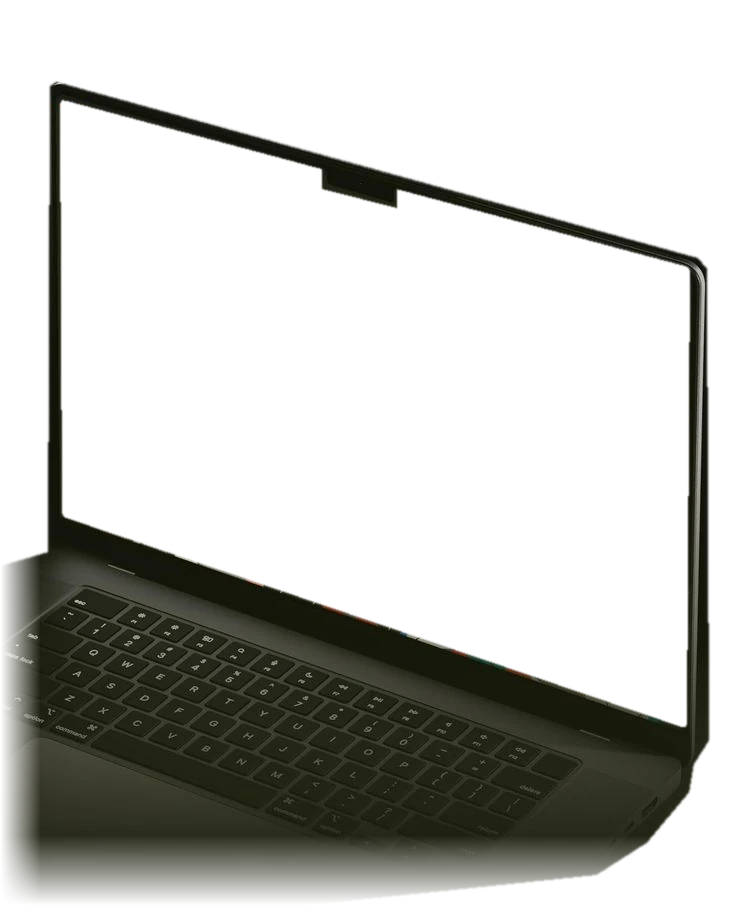
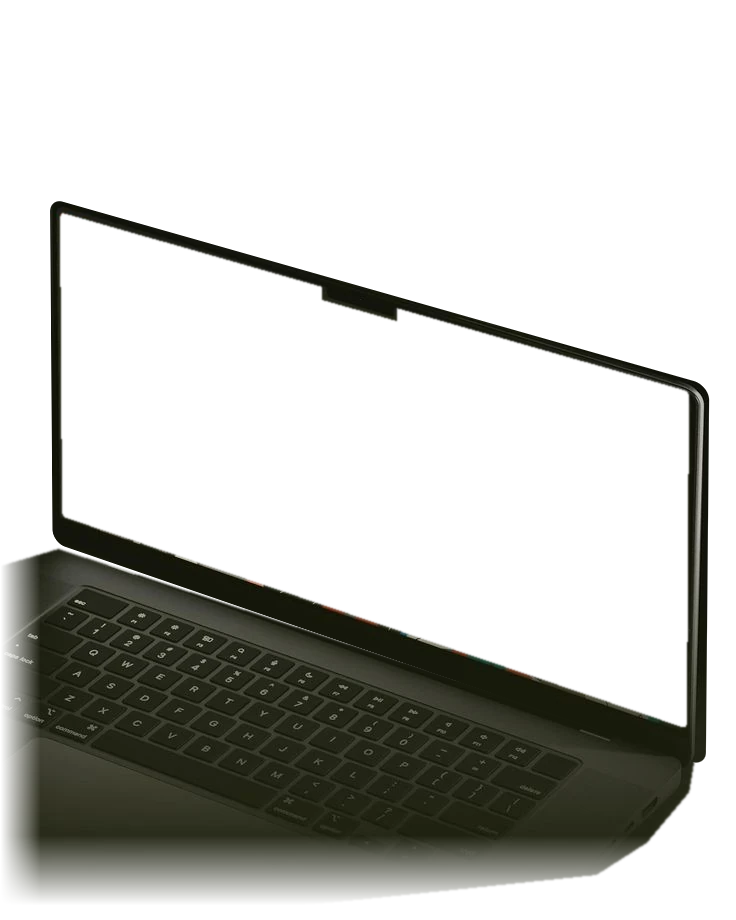
akatech studio modale

Changed region(s): [[0.0625, 0.0913, 0.9688, 0.8217], [0.125, 0.6087, 0.25, 0.6391], [0.25, 0.6391, 0.3438, 0.6696]]

diff --git a/app/pricing/PricingClientMobile.js b/app/pricing/PricingClientMobile.js
@@ -6,7 +6,6 @@ import { useTheme } from '@/lib/theme'
 import { useLanguage } from '@/lib/language'
 import { PageCTA, LaserBeam, GreenUnderline, HoverSlideText, UnderlinedTitle } from '@/components/ui/index'
 import AuroraHero from '@/components/ui/AuroraHero'
-import ProjectMarquee from '@/components/ui/ProjectMarquee'
 import { TESTIMONIALS, FAQ_ITEMS, PRICING } from '@/lib/data'
 
 /* ── HERO ── */
@@ -47,15 +46,13 @@ function HeroPricing() {
         <AuroraHero labels={[]} />
         <div style={{ position: 'absolute', inset: 0, background: 'linear-gradient(to bottom, transparent 20%, rgba(6,14,9,.95) 100%)' }} />
       </div>
-      {/* Bandeau d'images des projets (droite → gauche) : suit le doigt et fait onduler les textes data-wake */}
-      <ProjectMarquee />
       {/* Layer MID */}
       <div ref={layerMidRef} style={{ position: 'relative', zIndex: 10, maxWidth: 800, padding: '72px 5% 0', textAlign: 'center', willChange: 'transform, opacity, filter', transition: 'transform .1s ease-out' }}>
         <motion.div initial={{ opacity: 0, y: 24 }} animate={{ opacity: 1, y: 0 }} transition={{ duration: .6 }}>
-          <h1 style={{ position: 'relative', fontSize: 'min(var(--title-size), 3.8rem)', fontWeight: 900, fontStyle: 'italic', fontFamily: "'Barlow Condensed',sans-serif", color: 'rgba(255,255,255,.88)', letterSpacing: 'var(--title-tracking)', lineHeight: 'var(--title-leading)', marginBottom: '1rem' }}><span data-wake style={{ display: 'block' }}><UnderlinedTitle text={t('pricingTitle')} /></span></h1>
-          <div data-wake><p style={{ fontSize: '1rem', color: 'rgba(255,255,255,.55)', lineHeight: 1.75, maxWidth: 540, margin: '0 auto 1.5rem' }}>
+          <h1 style={{ position: 'relative', fontSize: 'min(var(--title-size), 3.8rem)', fontWeight: 900, fontStyle: 'italic', fontFamily: "'Barlow Condensed',sans-serif", color: 'rgba(255,255,255,.88)', letterSpacing: 'var(--title-tracking)', lineHeight: 'var(--title-leading)', marginBottom: '1rem' }}><UnderlinedTitle text={t('pricingTitle')} /></h1>
+          <p style={{ fontSize: '1rem', color: 'rgba(255,255,255,.55)', lineHeight: 1.75, maxWidth: 540, margin: '0 auto 1.5rem' }}>
             {t('pricingHero')}
-          </p></div>
+          </p>
           <div style={{ display: 'inline-flex', alignItems: 'center', gap: '.6rem', padding: '.5rem 1.2rem', borderRadius: 100, background: 'rgba(136,202,83,.08)', border: '1px solid rgba(136,202,83,.2)' }}>
             <div style={{ width: 8, height: 8, borderRadius: '50%', background: 'linear-gradient(135deg, #c6ff3d, #88ca53)', animation: 'dot-blink 1.4s ease-in-out infinite' }} />
             <span style={{ fontFamily: "'JetBrains Mono',monospace", fontSize: '.65rem', fontWeight: 600, color: T.green, letterSpacing: '.06em' }}>

diff --git a/app/services/ServicesClientMobile.js b/app/services/ServicesClientMobile.js
@@ -8,7 +8,6 @@ import { useLanguage } from '@/lib/language'
 import { LazyImg, LaserBeam, GreenUnderline, HoverSlideText, UnderlinedTitle } from '@/components/ui/index'
 import ConversionMarquee from '@/components/ui/ConversionMarquee'
 import AuroraHero from '@/components/ui/AuroraHero'
-import ProjectMarquee from '@/components/ui/ProjectMarquee'
 import { cld } from '@/lib/cloudinary'
 import { SERVICES } from '@/lib/data'
 
@@ -29,14 +28,12 @@ function HeroServices() {
   return (
     <section style={{ height: '100vh', minHeight: 600, width: '100%', background: '#060e09', position: 'relative', overflow: 'hidden', display: 'flex', alignItems: 'center' }}>
       <AuroraHero labels={[]} />
-      {/* Bandeau d'images des projets (droite → gauche) : suit le doigt et fait onduler les textes data-wake */}
-      <ProjectMarquee zIndex={0} />
       <div style={{ maxWidth: 900, margin: '0 auto', textAlign: 'center', position: 'relative', zIndex: 1, padding: '72px 5% 0' }}>
         <motion.div initial={{ opacity: 0, y: 20 }} animate={{ opacity: 1, y: 0 }} transition={{ duration: .6 }}>
-          <h1 style={{ position: 'relative', fontSize: 'min(var(--title-size), 3.8rem)', fontWeight: 900, fontStyle: 'italic', fontFamily: "'Barlow Condensed',sans-serif", color: 'rgba(255,255,255,.88)', letterSpacing: 'var(--title-tracking)', lineHeight: 'var(--title-leading)', marginBottom: '1.2rem' }}><span data-wake style={{ display: 'block' }}><UnderlinedTitle text={t('services').toUpperCase()} /></span></h1>
-          <div data-wake><p style={{ fontSize: '1rem', color: 'rgba(255,255,255,.55)', lineHeight: 1.75, maxWidth: 620, margin: '0 auto 2.5rem' }}>
+          <h1 style={{ position: 'relative', fontSize: 'min(var(--title-size), 3.8rem)', fontWeight: 900, fontStyle: 'italic', fontFamily: "'Barlow Condensed',sans-serif", color: 'rgba(255,255,255,.88)', letterSpacing: 'var(--title-tracking)', lineHeight: 'var(--title-leading)', marginBottom: '1.2rem' }}><UnderlinedTitle text={t('services').toUpperCase()} /></h1>
+          <p style={{ fontSize: '1rem', color: 'rgba(255,255,255,.55)', lineHeight: 1.75, maxWidth: 620, margin: '0 auto 2.5rem' }}>
             {t('servicesHero')}
-          </p></div>
+          </p>
           <div style={{ display: 'flex', flexWrap: 'wrap', gap: '1rem', justifyContent: 'center' }}>
             <a href="https://wa.me/2250142507750" target="_blank" rel="noreferrer" className="btn-raised" style={{ fontSize: '1rem' }}>
               <HoverSlideText text={t('freeQuote')} /> <MessageCircle size={16} />

diff --git a/app/projects/ProjectsClientMobile.js b/app/projects/ProjectsClientMobile.js
@@ -12,7 +12,6 @@ import { useLanguage } from '@/lib/language'
 import ProjectShowcase from '@/components/ui/ProjectShowcase'
 import { LazyImg, LaserBeam, GreenUnderline, HoverSlideText, UnderlinedTitle } from '@/components/ui/index'
 import AuroraHero from '@/components/ui/AuroraHero'
-import ProjectMarquee from '@/components/ui/ProjectMarquee'
 import { cld } from '@/lib/cloudinary'
 import { PROJECTS, getLocalizedData } from '@/lib/data'
 import { hasRealUrl } from '@/lib/project-stories'
@@ -61,15 +60,13 @@ function HeroRealisations() {
         <AuroraHero labels={[]} />
         <div style={{ position: 'absolute', inset: 0, background: 'linear-gradient(to bottom, transparent 20%, rgba(6,14,9,.95) 100%)' }} />
       </div>
-      {/* Bandeau d'images des projets (droite → gauche) : suit le doigt et fait onduler les textes data-wake */}
-      <ProjectMarquee />
       {/* Layer MID */}
       <div ref={layerMidRef} style={{ position: 'relative', zIndex: 10, maxWidth: 900, padding: '72px 5% 0', textAlign: 'center', willChange: 'transform, opacity, filter', transition: 'transform .1s ease-out' }}>
         <motion.div initial={{ opacity: 0, y: 24 }} animate={{ opacity: 1, y: 0 }} transition={{ duration: .6 }}>
-          <h1 style={{ position: 'relative', fontSize: 'min(var(--title-size), 3.8rem)', fontWeight: 900, fontStyle: 'italic', fontFamily: "'Barlow Condensed',sans-serif", color: 'rgba(255,255,255,.88)', letterSpacing: 'var(--title-tracking)', lineHeight: 'var(--title-leading)', marginBottom: '1.2rem' }}><span data-wake style={{ display: 'block' }}>+{PROJECTS.length} {t('deliveredProjects')},<br /><GreenUnderline>99% {t('satisfied')}.</GreenUnderline></span></h1>
-          <div data-wake><p style={{ fontSize: '1rem', color: 'rgba(255,255,255,.55)', lineHeight: 1.75, maxWidth: 560, margin: '0 auto 2.5rem' }}>
+          <h1 style={{ position: 'relative', fontSize: 'min(var(--title-size), 3.8rem)', fontWeight: 900, fontStyle: 'italic', fontFamily: "'Barlow Condensed',sans-serif", color: 'rgba(255,255,255,.88)', letterSpacing: 'var(--title-tracking)', lineHeight: 'var(--title-leading)', marginBottom: '1.2rem' }}>+{PROJECTS.length} {t('deliveredProjects')},<br /><GreenUnderline>99% {t('satisfied')}.</GreenUnderline></h1>
+          <p style={{ fontSize: '1rem', color: 'rgba(255,255,255,.55)', lineHeight: 1.75, maxWidth: 560, margin: '0 auto 2.5rem' }}>
             {t('projectsHero')}
-          </p></div>
+          </p>
         </motion.div>
       </div>
       {/* Layer FORE — particules */}

diff --git a/app/blog/BlogClientMobile.js b/app/blog/BlogClientMobile.js
@@ -7,7 +7,6 @@ import { useTheme } from '@/lib/theme'
 import { useLanguage } from '@/lib/language'
 import { MarqueeStrip, LaserBeam, GreenUnderline, HoverSlideText, LazyImg, UnderlinedTitle } from '@/components/ui/index'
 import AuroraHero from '@/components/ui/AuroraHero'
-import ProjectMarquee from '@/components/ui/ProjectMarquee'
 import { BLOG_POSTS } from '@/lib/data'
 import { cld } from '@/lib/cloudinary'
 
@@ -54,15 +53,13 @@ function HeroBlog() {
         <AuroraHero labels={[]} />
         <div style={{ position: 'absolute', inset: 0, background: 'linear-gradient(to bottom, transparent 20%, rgba(6,14,9,.95) 100%)' }} />
       </div>
-      {/* Bandeau d'images des projets (droite → gauche) : suit le doigt et fait onduler les textes data-wake */}
-      <ProjectMarquee />
       {/* Layer MID */}
       <div ref={layerMidRef} style={{ position: 'relative', zIndex: 10, maxWidth: 800, padding: '72px 5% 0', textAlign: 'center', willChange: 'transform, opacity, filter', transition: 'transform .1s ease-out' }}>
         <motion.div initial={{ opacity: 0, y: 30 }} animate={{ opacity: 1, y: 0 }} transition={{ duration: .7, ease: [.22,1,.36,1] }}>
-          <h1 style={{ position: 'relative', fontSize: 'min(var(--title-size), 3.8rem)', fontWeight: 900, fontStyle: 'italic', fontFamily: "'Barlow Condensed',sans-serif", color: 'rgba(255,255,255,.88)', letterSpacing: 'var(--title-tracking)', lineHeight: 'var(--title-leading)', marginBottom: '1.2rem' }}><span data-wake style={{ display: 'block' }}><UnderlinedTitle text={t('blogTitle')} /></span></h1>
-          <div data-wake><p style={{ fontSize: '1.05rem', color: 'rgba(255,255,255,.55)', lineHeight: 1.75, maxWidth: 520, margin: '0 auto' }}>
+          <h1 style={{ position: 'relative', fontSize: 'min(var(--title-size), 3.8rem)', fontWeight: 900, fontStyle: 'italic', fontFamily: "'Barlow Condensed',sans-serif", color: 'rgba(255,255,255,.88)', letterSpacing: 'var(--title-tracking)', lineHeight: 'var(--title-leading)', marginBottom: '1.2rem' }}><UnderlinedTitle text={t('blogTitle')} /></h1>
+          <p style={{ fontSize: '1.05rem', color: 'rgba(255,255,255,.55)', lineHeight: 1.75, maxWidth: 520, margin: '0 auto' }}>
             {t('blogHero')}
-          </p></div>
+          </p>
           <a
             href="https://www.linkedin.com/in/m-bollo-aka"
             target="_blank"

diff --git a/app/contact/ContactClientMobile.js b/app/contact/ContactClientMobile.js
@@ -12,7 +12,6 @@ import { LaserBeam, GreenUnderline, HoverSlideText, LazyImg, UnderlinedTitle } f
 import { trackAction } from '@/lib/track-action'
 import ConversionMarquee from '@/components/ui/ConversionMarquee'
 import AuroraHero from '@/components/ui/AuroraHero'
-import ProjectMarquee from '@/components/ui/ProjectMarquee'
 import { cld } from '@/lib/cloudinary'
 
 
@@ -72,15 +71,13 @@ function HeroContact() {
         <AuroraHero labels={[]} />
         <div style={{ position: 'absolute', inset: 0, background: 'linear-gradient(to bottom, transparent 20%, rgba(6,14,9,.95) 100%)' }} />
       </div>
-      {/* Bandeau d'images des projets (droite → gauche) : suit le doigt et fait onduler les textes data-wake */}
-      <ProjectMarquee />
       {/* Layer MID */}
       <div ref={layerMidRef} style={{ position: 'relative', zIndex: 10, maxWidth: 1000, padding: '72px 5% 0', textAlign: 'center', willChange: 'transform, opacity, filter', transition: 'transform .1s ease-out' }}>
         <motion.div initial={{ opacity: 0, y: 30 }} animate={{ opacity: 1, y: 0 }} transition={{ duration: .7, ease: [.22, 1, .36, 1] }}>
-          <h1 style={{ position: 'relative', fontSize: 'min(var(--title-size), 3.8rem)', fontWeight: 900, fontStyle: 'italic', fontFamily: "'Barlow Condensed',sans-serif", color: 'rgba(255,255,255,.88)', letterSpacing: 'var(--title-tracking)', lineHeight: 'var(--title-leading)', marginBottom: '1.2rem' }}><span data-wake style={{ display: 'block' }}><UnderlinedTitle text={t('contactTitle')} /></span></h1>
-          <div data-wake><p style={{ fontSize: 'clamp(.9rem,2vw,1.05rem)', color: 'rgba(255,255,255,.55)', lineHeight: 1.75, maxWidth: 560, margin: '0 auto 2.5rem' }}>
+          <h1 style={{ position: 'relative', fontSize: 'min(var(--title-size), 3.8rem)', fontWeight: 900, fontStyle: 'italic', fontFamily: "'Barlow Condensed',sans-serif", color: 'rgba(255,255,255,.88)', letterSpacing: 'var(--title-tracking)', lineHeight: 'var(--title-leading)', marginBottom: '1.2rem' }}><UnderlinedTitle text={t('contactTitle')} /></h1>
+          <p style={{ fontSize: 'clamp(.9rem,2vw,1.05rem)', color: 'rgba(255,255,255,.55)', lineHeight: 1.75, maxWidth: 560, margin: '0 auto 2.5rem' }}>
             {t('contactHero')}
-          </p></div>
+          </p>
         </motion.div>
       </div>
       {/* Layer FORE — particules */}

diff --git a/app/about/AboutClientMobile.js b/app/about/AboutClientMobile.js
@@ -8,7 +8,6 @@ import { useLanguage } from '@/lib/language'
 import { AnimatedCounter, LazyImg, GreenUnderline, HoverSlideText, UnderlinedTitle } from '@/components/ui/index'
 import TrustStacksMarquee from '@/components/ui/TrustStacksMarquee'
 import AuroraHero from '@/components/ui/AuroraHero'
-import ProjectMarquee from '@/components/ui/ProjectMarquee'
 import { STATS, PROJECTS } from '@/lib/data'
 import { cld } from '@/lib/cloudinary'
 
@@ -64,14 +63,12 @@ function HeroAbout() {
         <AuroraHero labels={[]} />
         <div style={{ position: 'absolute', inset: 0, background: `linear-gradient(to bottom, transparent 20%, ${T.bg} 100%)`, opacity: T.light ? 1 : .95 }} />
       </div>
-      {/* Bandeau d'images des projets (droite → gauche) : suit le doigt et fait onduler les textes data-wake */}
-      <ProjectMarquee />
       <div style={{ position: 'relative', zIndex: 10, width: '100%', padding: '7rem 5% 4rem' }}>
         <motion.div initial={{ opacity: 0, y: 24 }} animate={{ opacity: 1, y: 0 }} transition={{ duration: .7, ease: [.22,1,.36,1] }}>
-          <h1 style={{ position: 'relative', fontSize: 'min(var(--title-size), 3.8rem)', fontWeight: 900, fontStyle: 'italic', fontFamily: "'Barlow Condensed',sans-serif", color: T.textMain, letterSpacing: 'var(--title-tracking)', lineHeight: 'var(--title-leading)', marginBottom: '1.2rem' }}><span data-wake style={{ display: 'block' }}><UnderlinedTitle text={tFr('aboutTitle')} /></span></h1>
-          <div data-wake><p style={{ fontSize: '.95rem', color: T.textSub, lineHeight: 1.75, marginBottom: '2rem', maxWidth: 480 }}>
+          <h1 style={{ position: 'relative', fontSize: 'min(var(--title-size), 3.8rem)', fontWeight: 900, fontStyle: 'italic', fontFamily: "'Barlow Condensed',sans-serif", color: T.textMain, letterSpacing: 'var(--title-tracking)', lineHeight: 'var(--title-leading)', marginBottom: '1.2rem' }}><UnderlinedTitle text={tFr('aboutTitle')} /></h1>
+          <p style={{ fontSize: '.95rem', color: T.textSub, lineHeight: 1.75, marginBottom: '2rem', maxWidth: 480 }}>
             {tFr('aboutHero')}
-          </p></div>
+          </p>
         </motion.div>
         {/* Photo grid */}
         <motion.div initial={{ opacity: 0, y: 20 }} animate={{ opacity: 1, y: 0 }} transition={{ duration: .7, delay: .2 }}

diff --git a/app/contact/ContactClient.js b/app/contact/ContactClient.js
@@ -12,7 +12,6 @@ import { useLanguage } from '@/lib/language'
 import { GreenUnderline, LazyImg, UnderlinedTitle } from '@/components/ui/index'
 import ConversionMarquee from '@/components/ui/ConversionMarquee'
 import AuroraHero from '@/components/ui/AuroraHero'
-import ProjectMarquee from '@/components/ui/ProjectMarquee'
 import { cld } from '@/lib/cloudinary'
 
 // ═══════════════════════════════════════════════════════════════
@@ -254,16 +253,13 @@ function HeroContact() {
       </div>
 
       {/* Titre géant bas-gauche + bloc texte centré verticalement à droite — gabarit hero "page title" (réf. Helious) */}
-      {/* Bandeau d'images des projets (droite → gauche) : suit le pointeur et fait onduler les textes data-wake */}
-      <ProjectMarquee />
-
       <div ref={layerMidRef} className="hr-row" style={{ willChange: 'transform, opacity, filter', transition: 'transform .1s ease-out' }}>
-        <motion.h1 className="hr-title" initial={{ opacity: 0, y: 28 }} animate={{ opacity: 1, y: 0 }} transition={{ duration: .7, ease: 'easeOut' }}><span data-wake style={{ display: 'block' }}>{t('contactTitle').toUpperCase()}</span></motion.h1>
+        <motion.h1 className="hr-title" initial={{ opacity: 0, y: 28 }} animate={{ opacity: 1, y: 0 }} transition={{ duration: .7, ease: 'easeOut' }}>{t('contactTitle').toUpperCase()}</motion.h1>
 
         <div className="hr-side">
           <motion.div initial={{ opacity: 0, y: 20 }} animate={{ opacity: 1, y: 0 }} transition={{ duration: .6, delay: .2 }}>
-            <div data-wake><p className="hr-kicker">{t('freeQuote')} · 24h</p>
-            <p className="hr-desc">{t('contactHero')}</p></div>
+            <p className="hr-kicker">{t('freeQuote')} · 24h</p>
+            <p className="hr-desc">{t('contactHero')}</p>
           </motion.div>
         </div>
       </div>

diff --git a/app/projects/ProjectsClient.js b/app/projects/ProjectsClient.js
@@ -7,7 +7,6 @@ import { useLanguage } from '@/lib/language'
 import ProjectShowcase from '@/components/ui/ProjectShowcase'
 import { LazyImg, GreenUnderline, HoverSlideText, UnderlinedTitle } from '@/components/ui/index'
 import AuroraHero from '@/components/ui/AuroraHero'
-import ProjectMarquee from '@/components/ui/ProjectMarquee'
 import { cld } from '@/lib/cloudinary'
 import { PROJECTS, getLocalizedData } from '@/lib/data'
 import { hasRealUrl } from '@/lib/project-stories'
@@ -56,16 +55,13 @@ function HeroRealisations() {
       </div>
 
       {/* Titre géant bas-gauche + bloc texte centré verticalement à droite — gabarit hero "page title" (réf. Helious) */}
-      {/* Bandeau d'images des projets (droite → gauche) : suit le pointeur et fait onduler les textes data-wake */}
-      <ProjectMarquee />
-
       <div ref={layerMidRef} className="hr-row" style={{ willChange: 'transform, opacity, filter', transition: 'transform .1s ease-out' }}>
-        <motion.h1 className="hr-title" initial={{ opacity: 0, y: 28 }} animate={{ opacity: 1, y: 0 }} transition={{ duration: .7, ease: 'easeOut' }}><span data-wake style={{ display: 'block' }}>{t('projectsTitleUpper')}</span></motion.h1>
+        <motion.h1 className="hr-title" initial={{ opacity: 0, y: 28 }} animate={{ opacity: 1, y: 0 }} transition={{ duration: .7, ease: 'easeOut' }}>{t('projectsTitleUpper')}</motion.h1>
 
         <div className="hr-side">
           <motion.div initial={{ opacity: 0, y: 20 }} animate={{ opacity: 1, y: 0 }} transition={{ duration: .6, delay: .2 }}>
-            <div data-wake><p className="hr-kicker">+{PROJECTS.length} {t('deliveredProjects')} · 99% {t('satisfied')}</p>
-            <p className="hr-desc">{t('projectsHero')}</p></div>
+            <p className="hr-kicker">+{PROJECTS.length} {t('deliveredProjects')} · 99% {t('satisfied')}</p>
+            <p className="hr-desc">{t('projectsHero')}</p>
           </motion.div>
         </div>
       </div>

diff --git a/app/services/ServicesClients.js b/app/services/ServicesClients.js
@@ -8,7 +8,6 @@ import { useLanguage } from '@/lib/language'
 import { LazyImg, LaserBeam, GreenUnderline, HoverSlideText, UnderlinedTitle } from '@/components/ui/index'
 import ConversionMarquee from '@/components/ui/ConversionMarquee'
 import AuroraHero from '@/components/ui/AuroraHero'
-import ProjectMarquee from '@/components/ui/ProjectMarquee'
 import { cld } from '@/lib/cloudinary'
 import { getLocalizedData } from '@/lib/data'
 
@@ -65,16 +64,13 @@ function HeroServices() {
       </div>
 
       {/* Titre géant bas-gauche + bloc texte centré verticalement à droite — gabarit hero "page title" (réf. Helious) */}
-      {/* Bandeau d'images des projets (droite → gauche) : suit le pointeur et fait onduler les textes data-wake */}
-      <ProjectMarquee />
-
       <div ref={layerMidRef} className="hr-row" style={{ willChange: 'transform, opacity, filter', transition: 'transform .1s ease-out' }}>
-        <motion.h1 className="hr-title" initial={{ opacity: 0, y: 28 }} animate={{ opacity: 1, y: 0 }} transition={{ duration: .7, ease: 'easeOut' }}><span data-wake style={{ display: 'block' }}>{t('services').toUpperCase()}</span></motion.h1>
+        <motion.h1 className="hr-title" initial={{ opacity: 0, y: 28 }} animate={{ opacity: 1, y: 0 }} transition={{ duration: .7, ease: 'easeOut' }}>{t('services').toUpperCase()}</motion.h1>
 
         <div className="hr-side">
           <motion.div initial={{ opacity: 0, y: 20 }} animate={{ opacity: 1, y: 0 }} transition={{ duration: .6, delay: .2 }}>
-            <div data-wake><p className="hr-kicker">{t('service_hero_kicker')}</p>
-            <p className="hr-desc">{t('service_hero_text')}</p></div>
+            <p className="hr-kicker">{t('service_hero_kicker')}</p>
+            <p className="hr-desc">{t('service_hero_text')}</p>
           </motion.div>
           <div style={{ display: 'flex', flexWrap: 'wrap', gap: '1rem', justifyContent: 'center' }}>
             

diff --git a/app/pricing/PricingClient.js b/app/pricing/PricingClient.js
@@ -6,7 +6,6 @@ import { useTheme } from '@/lib/theme'
 import { useLanguage } from '@/lib/language'
 import { GreenUnderline, PageCTA, HoverSlideText, UnderlinedTitle } from '@/components/ui/index'
 import AuroraHero from '@/components/ui/AuroraHero'
-import ProjectMarquee from '@/components/ui/ProjectMarquee'
 import { TESTIMONIALS, FAQ_ITEMS, PRICING, getLocalizedData } from '@/lib/data'
 
 /* ─── BlurReveal ─────────────────────────────────────────── */
@@ -74,16 +73,13 @@ function HeroPricing() {
       </div>
 
       {/* Titre géant bas-gauche + bloc texte centré verticalement à droite — gabarit hero "page title" (réf. Helious) */}
-      {/* Bandeau d'images des projets (droite → gauche) : suit le pointeur et fait onduler les textes data-wake */}
-      <ProjectMarquee />
-
       <div ref={layerMidRef} className="hr-row" style={{ willChange: 'transform, opacity, filter', transition: 'transform .1s ease-out' }}>
-        <motion.h1 className="hr-title" initial={{ opacity: 0, y: 28 }} animate={{ opacity: 1, y: 0 }} transition={{ duration: .7, ease: 'easeOut' }}><span data-wake style={{ display: 'block' }}>TARIF</span></motion.h1>
+        <motion.h1 className="hr-title" initial={{ opacity: 0, y: 28 }} animate={{ opacity: 1, y: 0 }} transition={{ duration: .7, ease: 'easeOut' }}>TARIF</motion.h1>
 
         <div className="hr-side">
           <motion.div initial={{ opacity: 0, y: 20 }} animate={{ opacity: 1, y: 0 }} transition={{ duration: .6, delay: .2 }}>
-            <div data-wake><p className="hr-kicker">{t('pricing_kicker')}</p>
-            <p className="hr-desc">{t('pricingHero')}</p></div>
+            <p className="hr-kicker">{t('pricing_kicker')}</p>
+            <p className="hr-desc">{t('pricingHero')}</p>
           </motion.div>
         </div>
       </div>

diff --git a/components/ui/DeviceShowcase.css b/components/ui/DeviceShowcase.css
@@ -9,13 +9,13 @@
   width: 100%;
   max-width: 1000px;
   margin: 0 auto;
-  aspect-ratio: 1 / 1;
+  aspect-ratio: 1.25 / 1;
   isolation: isolate;
 }
 
 .dv-slot { position: absolute; }
-.dv-slot--laptop { left: -7%; top: -5%; width: 84%; animation: dvFloat 9s ease-in-out infinite; }
-.dv-slot--phone  { right: -5%; top: 10%; width: 52%; animation: dvFloat 7s ease-in-out -3s infinite; z-index: 2; }
+.dv-slot--laptop { left: -7%; top: -27%; width: 84%; animation: dvFloat 9s ease-in-out infinite; }
+.dv-slot--phone  { right: -5%; top: 17%; width: 52%; animation: dvFloat 7s ease-in-out -3s infinite; z-index: 2; }
 
 @keyframes dvFloat {
   0%, 100% { translate: 0 0; }
@@ -49,16 +49,9 @@ body.light-mode .dv-frame { filter: drop-shadow(0 22px 26px rgba(0, 0, 0, .28));
 /* Fondu entre deux projets */
 .dv-fade { position: absolute; inset: 0; }
 
-/* Écran du portable : média pleine largeur, ancré en haut ; le reste de
-   l'écran (le média est ~2,17:1 pour un écran 16:10) est prolongé par une
-   copie floutée de l'aperçu — rien n'est rogné sur les côtés. */
-.dv-ambient {
-  position: absolute; inset: 0; width: 100%; height: 100%;
-  object-fit: cover; object-position: top;
-  filter: blur(26px) saturate(1.15) brightness(.82);
-  transform: scale(1.12);
-}
-.dv-main { position: absolute; left: 0; top: 0; width: 100%; height: auto; display: block; }
+/* Écran du portable : retaillé au format des vidéos / aperçus (2,17:1) → le média le remplit
+   entièrement, sans bandes ni flou (léger recadrage « cover » si un aperçu diffère un peu). */
+.dv-main { position: absolute; inset: 0; width: 100%; height: 100%; object-fit: cover; object-position: top; display: block; }
 
 /* Écran du téléphone : l'image `-responsive` (720 × 1600) */
 .dv-phone-img { width: 100%; height: 100%; object-fit: cover; object-position: top; display: block; }

diff --git a/app/HomeClientMobile.js b/app/HomeClientMobile.js
@@ -20,7 +20,6 @@ import ConversionMarquee from '@/components/ui/ConversionMarquee'
 import { PROJECTS, TESTIMONIALS, FAQ_ITEMS, PRICING } from '@/lib/data'
 import { AvatarGroup, Avatar, AvatarImage, AvatarFallback, AvatarGroupTooltip, AvatarGroupTooltipArrow } from '@/components/ui/AvatarGroup'
 import ProjectShowcase from '@/components/ui/ProjectShowcase'
-import ProjectMarquee from '@/components/ui/ProjectMarquee'
 
 // ── TILT 3D CARD — parallaxe souris native ──────────────────
 function TiltCard({ children, style = {}, className = '', intensity = 14, perspective = 900 }) {
@@ -222,20 +221,17 @@ function Hero() {
         <div className="grid-bg" style={{ position: 'absolute', inset: 0, opacity: .13, pointerEvents: 'none' }} />
       </div>
 
-      {/* Bandeau d'images des projets (droite → gauche) — suit le doigt, fait onduler les textes data-wake */}
-      <ProjectMarquee />
-
       <div ref={layerMidRef} style={{ position: 'relative', zIndex: 10, width: '100%', maxWidth: 1100, padding: '4rem 5% 0', willChange: 'transform, opacity, filter', transition: 'transform .1s ease-out', textAlign: 'center' }}>
 
-        <div data-wake><HeroSloganCycle /></div>
+        <HeroSloganCycle />
 
-        <div data-wake>
+        
           <motion.p
             initial={{ opacity: 0, y: 10 }} animate={{ opacity: 1, y: 0 }} transition={{ duration: .5, delay: .35 }}
             style={{ fontFamily: "'JetBrains Mono',monospace", fontSize: '.92rem', color: 'rgba(255,255,255,.68)', maxWidth: 420, margin: '0 auto 1.4rem', lineHeight: 1.55 }}>
             {t('homeHeroText')}
           </motion.p>
-        </div>
+        
 
         <motion.div
           initial={{ opacity: 0, y: 10 }} animate={{ opacity: 1, y: 0 }} transition={{ duration: .5, delay: .4 }}
